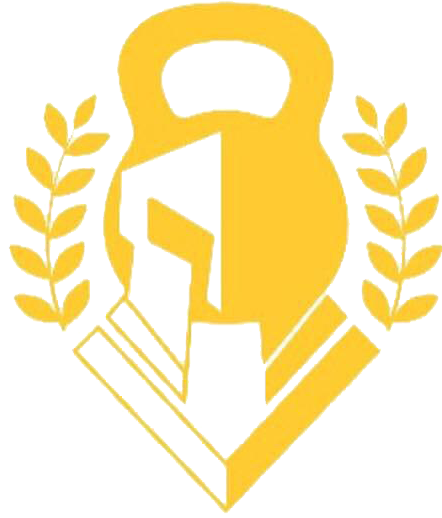
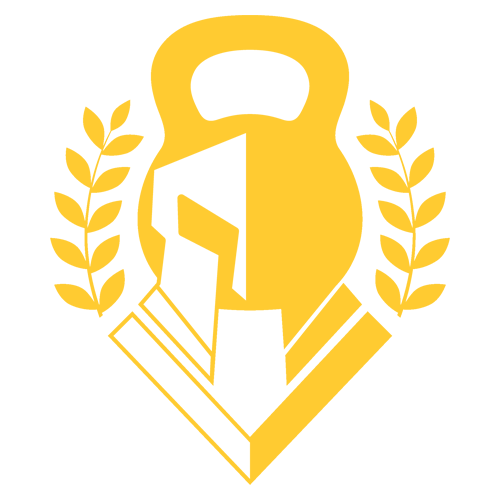
saturday morning adjusts

Changed region(s): [[0.0, 0.0, 1.0, 0.99]]

diff --git a/index.html b/index.html
@@ -34,8 +34,6 @@
 
 <body>
 
-
-    </div>
     <nav class="navbar navbar-expand-lg navbar-dark ftco_navbar bg-dark ftco-navbar-light" id="ftco-navbar">
         <div class="container">
             <!--  <a class="navbar-brand" href="index.html">Imperator<small style="text-align: center; color: #ffc107;">Complexo</small></a> -->
@@ -125,40 +123,44 @@
     </section>
     -->
     <section>
+        <div class="row">
+            <div class="col-xm-12 col-sm-12 col-md-12 col-lg-12">
 
-        <div id="carouselImperator" class="carousel slide carousel-fade" data-ride="carousel">
-            <ol class="carousel-indicators">
-                <li data-target="#carouselImperator" data-slide-to="0" class="active"></li>
-                <li data-target="#carouselImperator" data-slide-to="1"></li>
-                <li data-target="#carouselImperator" data-slide-to="2"></li>
-                <li data-target="#carouselImperator" data-slide-to="3"></li>
-                <li data-target="#carouselImperator" data-slide-to="4"></li>
-            </ol>
-            <div class="carousel-inner">
-                <div class="carousel-item active">
-                    <img src="images/icons/imperatorcomplexo-whitebackground.png" class="d-block w-100" alt="...">
-                </div>
-                <div class="carousel-item">
-                    <img src="images/imperator_wide2.jpg" class="d-block w-100" alt="...">
-                </div>
-                <div class="carousel-item">
-                    <img src="images/sasteam.jpeg" class="d-block w-100" alt="...">
-                </div>
-                <div class="carousel-item">
-                    <img src="images/jiu_jitsu3.jpeg" class="d-block w-100" alt="...">
-                </div>
-                <div class="carousel-item">
-                    <img src="images/jiujitsu_niver.jpg" class="d-block w-100" alt="...">
+                <div id="carouselImperator" class="carousel slide carousel-fade" data-ride="carousel">
+                    <ol class="carousel-indicators">
+                        <li data-target="#carouselImperator" data-slide-to="0" class="active"></li>
+                        <li data-target="#carouselImperator" data-slide-to="1"></li>
+                        <li data-target="#carouselImperator" data-slide-to="2"></li>
+                        <li data-target="#carouselImperator" data-slide-to="3"></li>
+                        <li data-target="#carouselImperator" data-slide-to="4"></li>
+                    </ol>
+                    <div class="carousel-inner">
+                        <div class="carousel-item active">
+                            <img src="images/icons/imperatorcomplexo-blackbackground.png" class="img-fluid w-100">
+                        </div>
+                        <div class="carousel-item">
+                            <img src="images/imperator_wide2.jpg" class="img-fluid w-100">
+                        </div>
+                        <div class="carousel-item">
+                            <img src="images/sasteam.jpeg" class="img-fluid w-100">
+                        </div>
+                        <div class="carousel-item">
+                            <img src="images/jiu_jitsu3.jpeg" class="img-fluid w-100">
+                        </div>
+                        <div class="carousel-item">
+                            <img src="images/jiujitsu_niver.jpg" class="img-fluid w-100">
+                        </div>
+                    </div>
+                    <a class="carousel-control-prev" href="#carouselImperator" role="button" data-slide="prev">
+                        <span class="carousel-control-prev-icon" aria-hidden="true"></span>
+                        <span class="sr-only">Previous</span>
+                    </a>
+                    <a class="carousel-control-next" href="#carouselImperator" role="button" data-slide="next">
+                        <span class="carousel-control-next-icon" aria-hidden="true"></span>
+                        <span class="sr-only">Next</span>
+                    </a>
                 </div>
             </div>
-            <a class="carousel-control-prev" href="#carouselImperator" role="button" data-slide="prev">
-                <span class="carousel-control-prev-icon" aria-hidden="true"></span>
-                <span class="sr-only">Previous</span>
-            </a>
-            <a class="carousel-control-next" href="#carouselImperator" role="button" data-slide="next">
-                <span class="carousel-control-next-icon" aria-hidden="true"></span>
-                <span class="sr-only">Next</span>
-            </a>
         </div>
     </section>
 
@@ -542,7 +544,7 @@
                                     <span class="icon icon-clock-o" style="margin-right: 20px;"></span>
                                     <span class="text txt-white">Horários de Funcionamento: 6h - 14h <strong>|</strong> 18h - 22h</span>
                                 </li>
-                                <li><span class="icon icon-envelope"></span><span class="text txt-white"> contato.imperatorcomplexo@gmail.com</span></li>
+                                <li><span class="icon icon-envelope" style="padding-right: 20px;"></span><span class="text txt-white"> contato.imperatorcomplexo@gmail.com</span></li>
                             </ul>
                         </div>
                     </div>
@@ -586,7 +588,7 @@
             </div>
             <div class="col-sm-4 text-center">
                 <a href="https://www.instagram.com/imperatorcomplexo" target="_blank">
-                    <img src="images/icons/LogoFontesFitness.png" alt="footer-icon" style="min-width: 250px !important;">
+                    <img src="images/icons/LogoFontesFitness.png" alt="footer-icon" style="min-width: 230px !important; margin-top: 10px;">
                 </a>
             </div>
         </div>

diff --git a/modalidades.html b/modalidades.html
@@ -476,20 +476,24 @@
                         <h2 class="ftco-heading-2">Sobre Nós</h2>
                         <p>Desejamos oferecer um serviço de qualidade e que inspire confiança em nossos clientes.</p>
                         <ul class="ftco-footer-social list-unstyled float-md-left float-lft mt-5">
-                            <li class="ftco-animate"><a href="https://www.facebook.com/imperatorcomplexo"><span class="icon-facebook"></span></a></li>
-                            <li class="ftco-animate"><a href="https://www.instagram.com/imperatorcomplexo/"><span class="icon-instagram"></span></a></li>
+                            <li class="ftco-animate"><a href="https://www.facebook.com/imperatorcomplexo" target="_blank"><span class="icon-facebook"></span></a></li>
+                            <li class="ftco-animate"><a href="https://www.instagram.com/imperatorcomplexo/" target="_blank"><span class="icon-instagram"></span></a></li>
                         </ul>
                     </div>
                 </div>
 
-                <div class="col-lg-6 col-md-6 mb-5 mb-md-5">
+                <div class="col-lg-6 col-md-6 mb-5 mb-md-5 info-imperatorcomplexo">
                     <div class="ftco-footer-widget mb-4">
                         <h2 class="ftco-heading-2">Entre em contato</h2>
                         <div class="block-23 mb-3">
                             <ul>
-                                <li><span class="icon icon-map-marker"></span><span class="text">Rua Nossa Sra de Nazaré, 01, Eusébio - Ceará</span></li>
+                                <li><span class="icon icon-map-marker"></span><span class="text txt-white">Rua Nossa Sra de Nazaré, 01, Eusébio - Ceará</span></li>
                                 <li><a href="https://wa.me/558586085628" target="_blank"><span class="icon icon-phone"></span><span class="text"><small>(85)</small> 98608-5628</span></a></li>
-                                <li><span class="icon icon-envelope"></span><span class="text">contato.imperatorcomplexo@gmail.com</span></li>
+                                <li>
+                                    <span class="icon icon-clock-o" style="margin-right: 20px;"></span>
+                                    <span class="text txt-white">Horários de Funcionamento: 6h - 14h <strong>|</strong> 18h - 22h</span>
+                                </li>
+                                <li><span class="icon icon-envelope" style="padding-right: 20px;"></span><span class="text txt-white"> contato.imperatorcomplexo@gmail.com</span></li>
                             </ul>
                         </div>
                     </div>
@@ -512,14 +516,6 @@
             </div>
         </div>
 
-        <div class="row footer_imperatorlogo">
-            <div class="col-sm-12 text-center">
-                <a href="https://www.instagram.com/imperatorcomplexo" target="_blank">
-                    <img src="images/icon_imperator_all_black.png" alt="footer-icon">
-                </a>
-            </div>
-        </div>
-
         <div class="row text-center py-4 back-to-top">
             <div class="col-sm-12">
                 <a href="#">
@@ -527,6 +523,60 @@
                 </a>
             </div>
         </div>
+
+        <div class="row footer_imperatorlogo">
+            <div class="col-sm-4 text-center">
+                <a href="https://www.instagram.com/imperatorcomplexo" target="_blank">
+                    <img src="images/icons/sasteam-emptybackground.png" alt="footer-icon" style="min-width: 100px;">
+                </a>
+            </div>
+            <div class="col-sm-4 text-center">
+                <a href="https://www.instagram.com/imperatorcomplexo" target="_blank">
+                    <img src="images/icon_imperator_all_black.png" alt="footer-icon">
+                </a>
+            </div>
+            <div class="col-sm-4 text-center">
+                <a href="https://www.instagram.com/imperatorcomplexo" target="_blank">
+                    <img src="images/icons/LogoFontesFitness.png" alt="footer-icon" style="min-width: 230px !important; margin-top: 10px;">
+                </a>
+            </div>
+        </div>
+
+        <!--
+            <div class="row text-center animated 1 fadeInLeft delay-2s footer-info my-5">
+                <div class="col-sm-4 px-4">
+                    <p>
+                        <div class="icon"><span class="icon-phone"></span></div>
+                        <div class="text">
+                            <a href="https://wa.me/558586085628" target="_blank">
+                                <h3>(85) 9 8908-5628</h3>
+                            </a>
+                            <small>Clique para entrar em contato via Whatsapp</small>
+                            <p>Álvaro Fontes</p>
+                        </div>
+                    </p>
+                </div>
+                <div class="col-sm-4 px-4">
+                    <p>
+                        <div class="icon"><span class="icon-my_location"></span></div>
+                        <div class="text">
+                            <h3>Rua Nossa Sra de Nazaré, 01, Eusébio</h3>
+                            <p>Próximo ao Posto Lua</p>
+                        </div>
+                    </p>
+                </div>
+                <div class="col-sm-4 px-4">
+                    <p>
+                        <div class="icon"><span class="icon-clock-o"></span></div>
+                        <div class="text">
+                            <h3>Horários de Funcionamento</h3>
+                            <p>6h - 14h</p>
+                            <p>18h - 22h</p>
+                        </div>
+                    </p>
+                </div>
+            </div>
+            -->
     </footer>
 
 

diff --git a/css/style.css b/css/style.css
@@ -12239,6 +12239,6 @@ textarea.form-control {
     color: #fff;
 }
 
-.carousel-item img {
-    height: 300px;
+.img-fluid {
+    height: -webkit-fill-available;
 }
